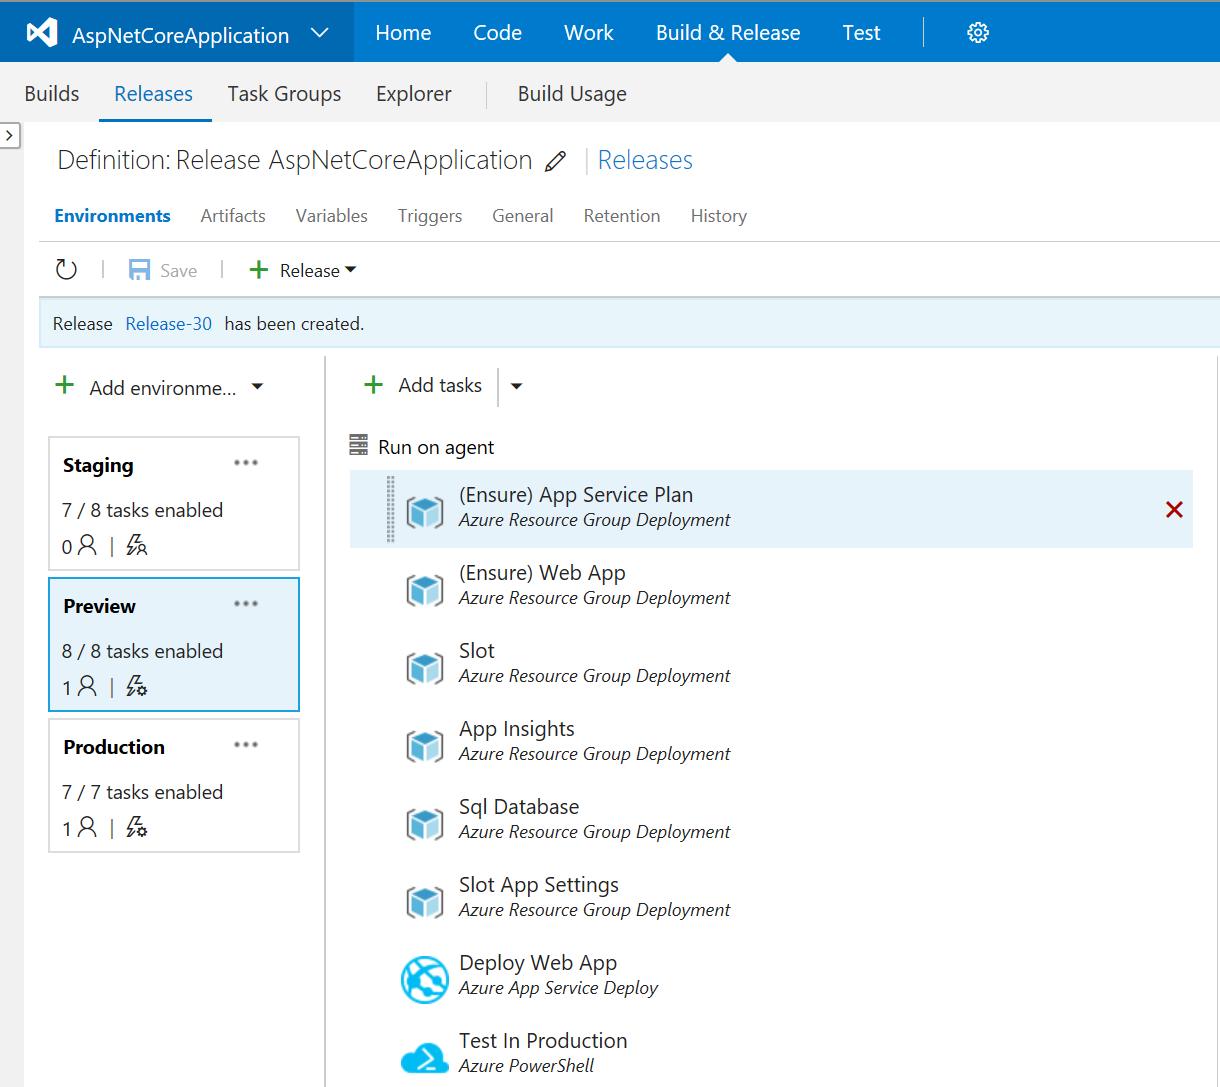
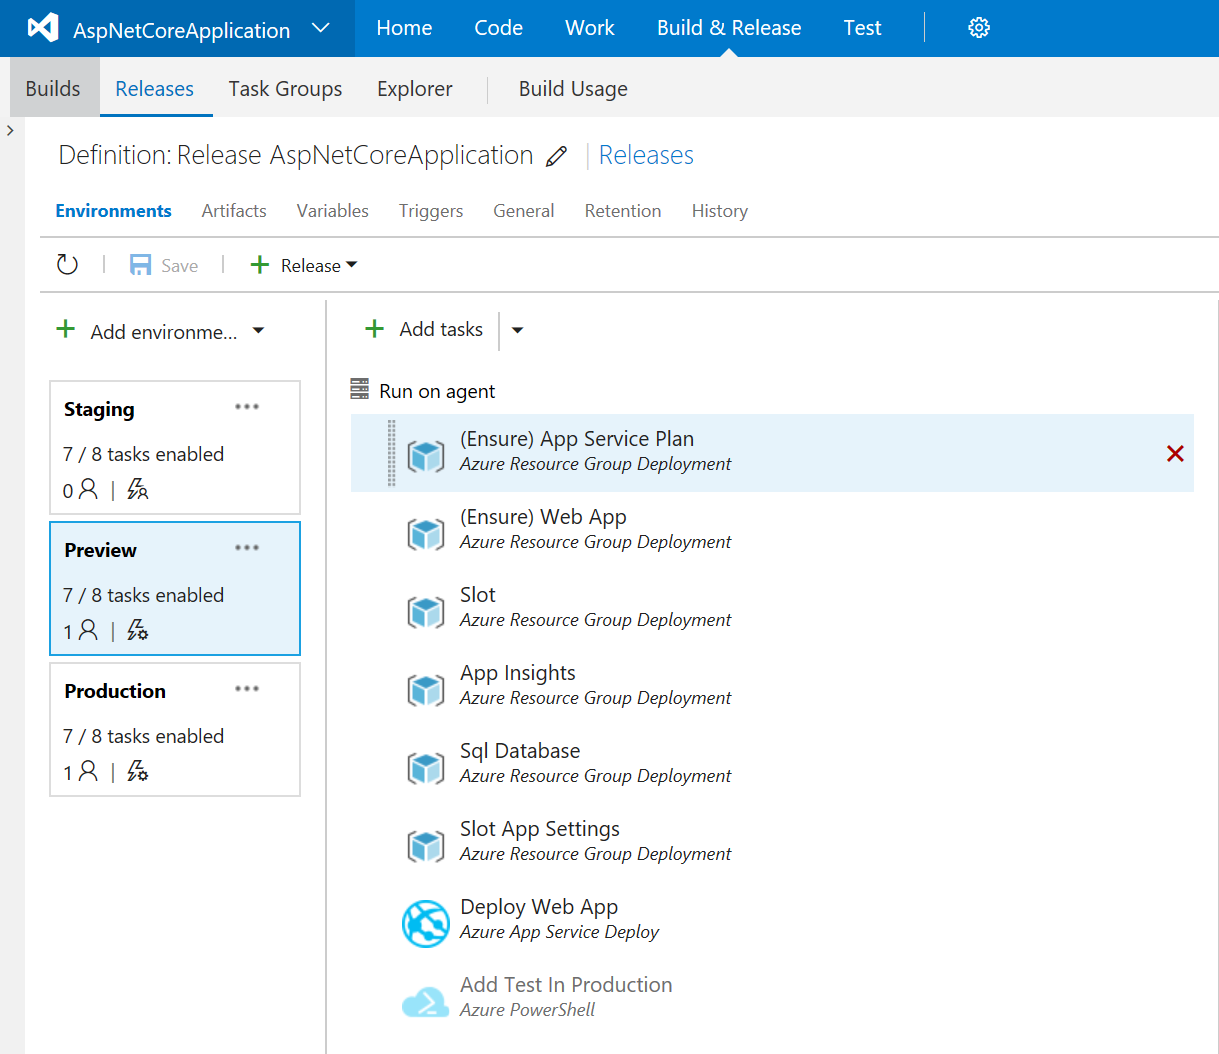
Update release docs regarding TiP steps.

diff --git a/docs/Release.md b/docs/Release.md
@@ -117,7 +117,7 @@ Here is one example to Release this Web App via VSTS. You could adapt it with yo
 
 ##Steps 
 - Same than the "Staging Environment" but replace the last one: "Quick Web Performance Test Load" step by the one following:
-- Test In Production
+- Add Test In Production - disabled for now because the script doesn't work.
   - Type = Azure Powershell
   - Azure Connection Type = Azure Resource Manager
   - Azure RM Subscription = set appropriate
@@ -192,6 +192,12 @@ Here is one example to Release this Web App via VSTS. You could adapt it with yo
   - Template = $(System.DefaultWorkingDirectory)/Build AspNetCoreApplication/arm-templates/[WebAppSettings.json](../release/ManageAzureWebAppAzureResourceGroup/templates/WebAppSettings.json)
   - Override Template Parameters = -webAppName $(ResourceGroupName)  -adminLogin $(AdministratorLogin) -adminLoginPassword (ConvertTo-SecureString -String '$(AdministratorLoginPassword)' -AsPlainText -Force)
   - Deployment Mode = Incremental
+- Remove Test In Production - disabled for now because the script doesn't work.
+  - Type = Azure Powershell
+  - Azure Connection Type = Azure Resource Manager
+  - Azure RM Subscription = set appropriate
+  - Script Path = $(System.DefaultWorkingDirectory)/Build AspNetCoreApplication/scripts/[SetUpTestInProduction.ps1](../release/ManageAzureWebAppAzureResourceGroup/scripts/SetUpTestInProduction.ps1)
+  - Script Arguments = $(ResourceGroupName) $(SlotToSwap) 0
 - Swap Staging to Production
   - Type = Azure App Service Manage (PREVIEW)
   - AzureRM Subscription = set appropriate
